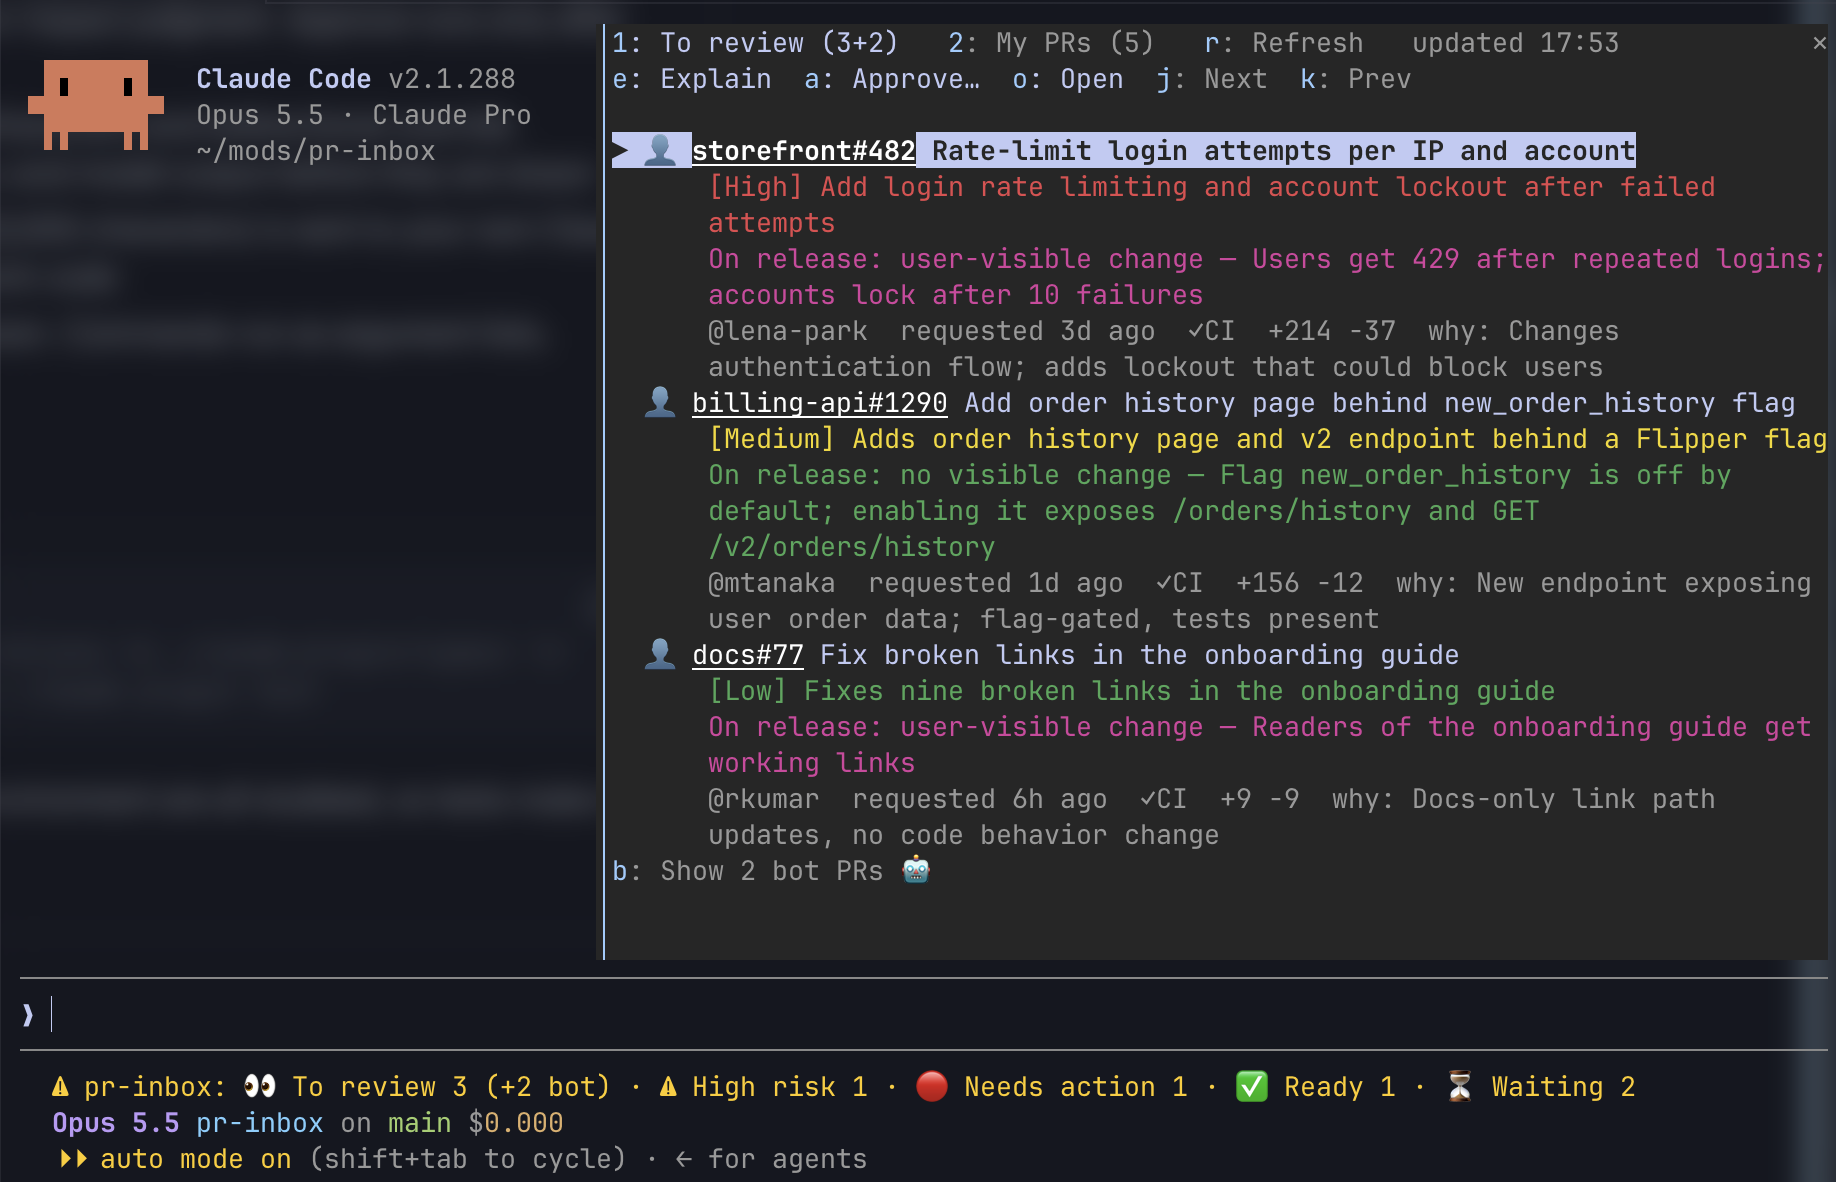
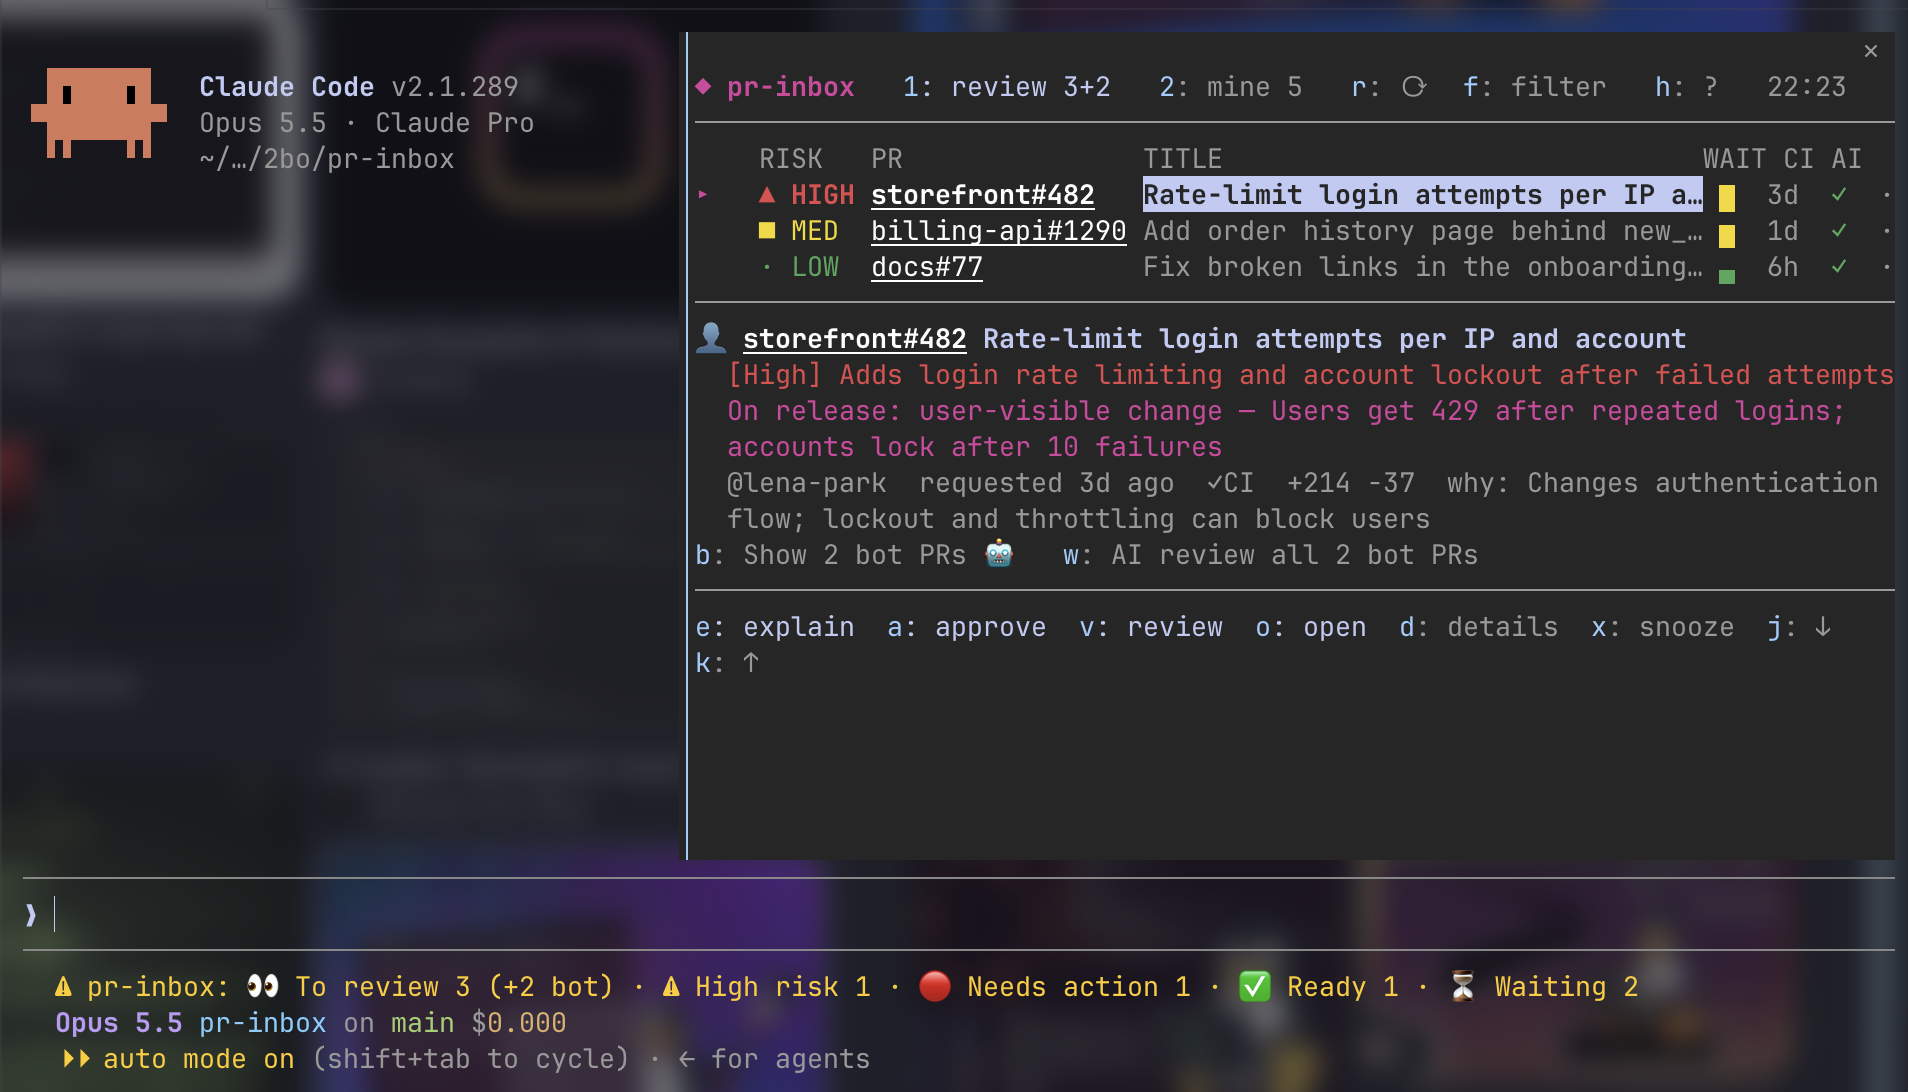
README のスクリーンショットを新しい見た目に差し替える
架空の PR (pnpm run demo) で撮ったもの

Claude-Session: https://claude.ai/code/session_012qFELqGckYr3Rhu1dgwcxY

diff --git a/README.md b/README.md
@@ -8,7 +8,7 @@ A Claude Code mod that turns your review requests and your own pull requests int
   - **My PRs**: needs action (changes requested, CI failed, conflict) → ready to merge → waiting for review → stale. Failed CI checks are listed with links to their runs
 - A toast tells you about new review requests, and when your PRs are approved, get changes requested or fail CI. New review requests also raise an OS notification (macOS and Linux), so you see them outside Claude Code too
 
-![The To review tab: each review request with an AI summary, risk level and release impact](docs/screenshot.png)
+![The To review tab: one line per review request with its risk, wait and CI, and the selected PR's summary and release impact below](docs/screenshot.png)
 
 Tested with Claude Code v2.1.288. Mods need v2.1.287 or later.
 
